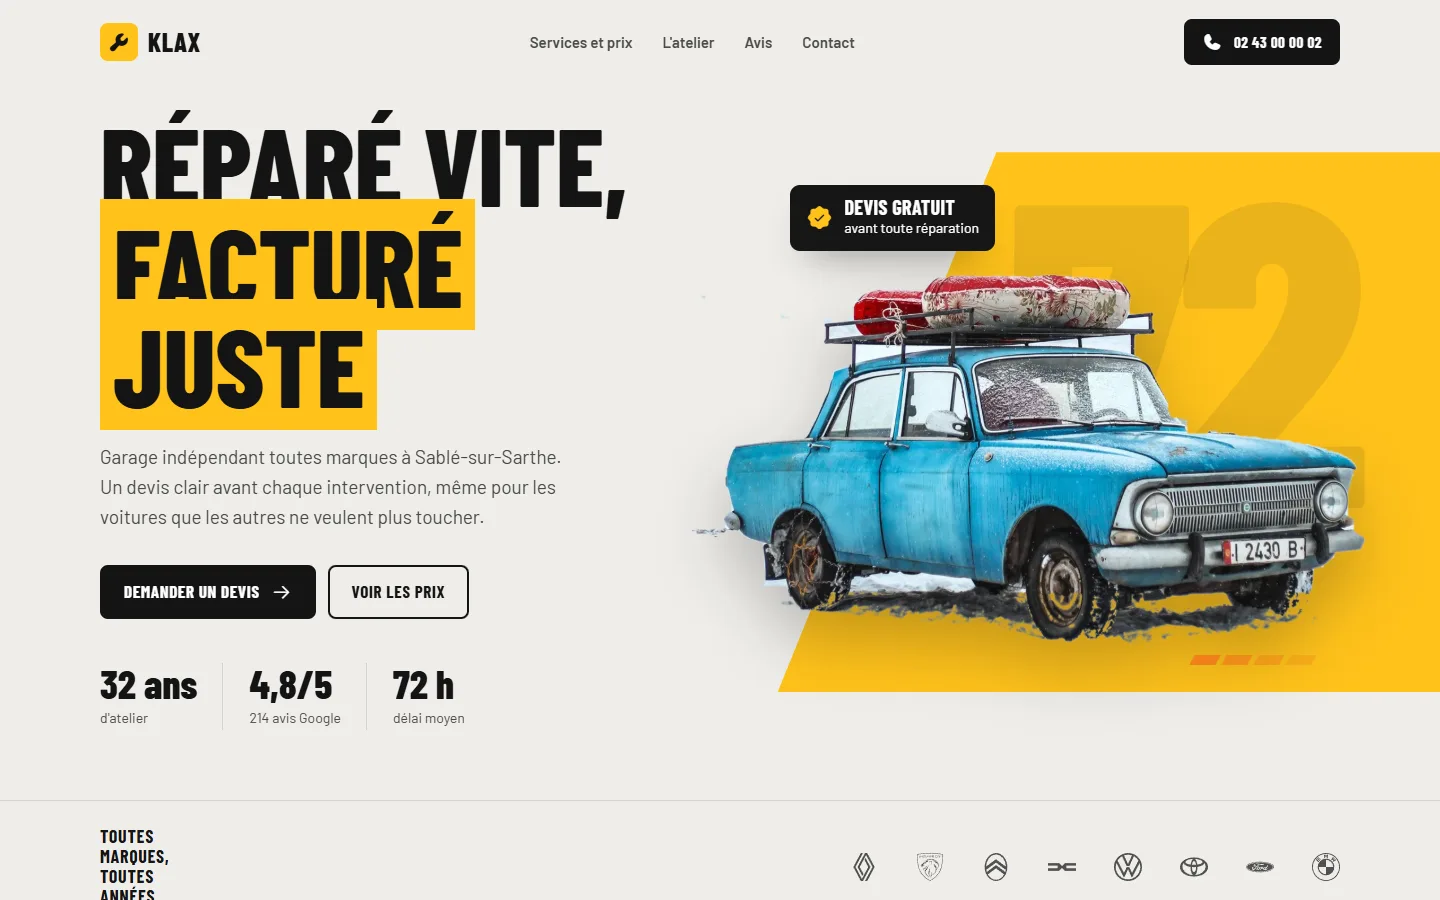
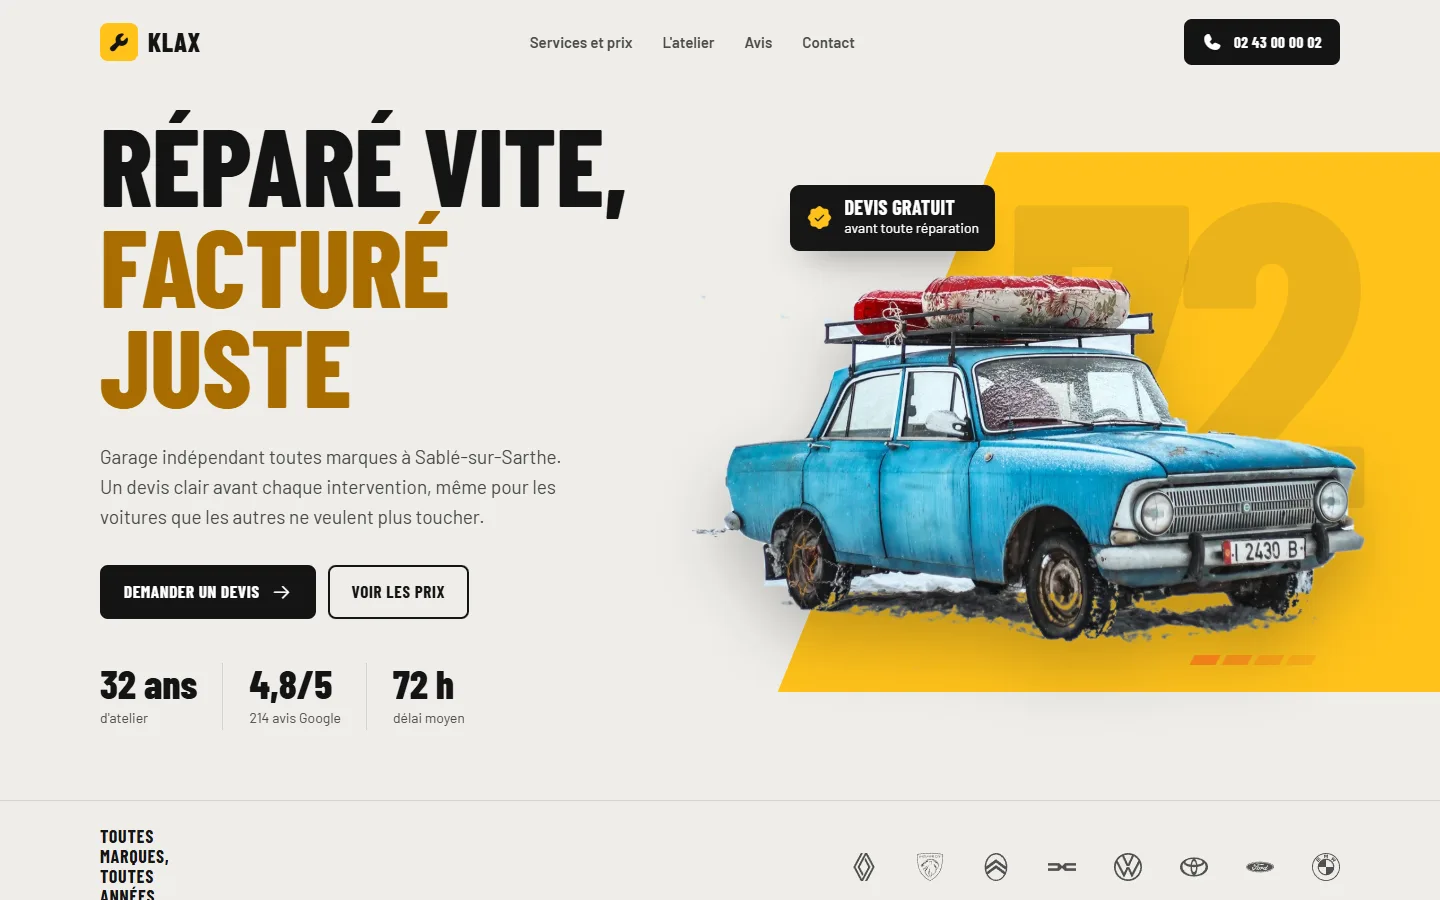
Garage : couleur au lieu du surlignage ; accueil : offres juste avant la FAQ

Changed region(s): [[0.0625, 0.2178, 0.3438, 0.4978]]

diff --git a/public/demo/garage-klax/index.html b/public/demo/garage-klax/index.html
@@ -32,7 +32,8 @@ img{display:block;max-width:100%}
 .wrap{max-width:1280px;margin:0 auto;padding:0 20px}
 h1,h2,h3{font-family:var(--display);font-weight:800;text-transform:uppercase;letter-spacing:-.005em;line-height:.92;text-wrap:balance}
 h2{font-size:clamp(42px,5.4vw,76px)}
-.hl{background:var(--yellow);color:var(--ink);padding:0 .12em;box-decoration-break:clone;-webkit-box-decoration-break:clone}
+.hl{color:#a86c00}
+.services .hl,.contact .hl{color:var(--yellow)}
 .sec{padding:120px 0}
 @media (max-width:760px){.sec{padding:80px 0}}
 .skip{position:absolute;left:-999px;top:8px;background:var(--yellow);padding:10px 14px;border-radius:6px;z-index:100}
@@ -105,7 +106,6 @@ h2{font-size:clamp(42px,5.4vw,76px)}
 /* ============ SERVICES (sombre) ============ */
 .services{background:var(--dark);color:#fff}
 .srv-grid{display:grid;gap:56px}
-.srv-head h2 .hl{color:var(--ink)}
 .srv-head p{margin-top:22px;color:rgba(255,255,255,.72);max-width:42ch;font-size:18px}
 .srv-head .btn{margin-top:30px}
 .srv-photo{margin-top:40px;border-radius:12px;overflow:hidden;aspect-ratio:4/3;max-width:460px;position:relative}

diff --git a/app/page.tsx b/app/page.tsx
@@ -19,7 +19,6 @@ export default function Home() {
       <HeroSection />
       <PourQuiSection />
       <ApprocheSection />
-      <TarifsSection />
 
       {/* PROJETS : deux lignes qui défilent */}
       <section id="projets" className="section-y-sm" style={{ overflow: "hidden" }}>
@@ -32,6 +31,7 @@ export default function Home() {
       </section>
 
       <AproposSection />
+      <TarifsSection />
       <FaqSection />
       <ContactSection />
       <Footer />
